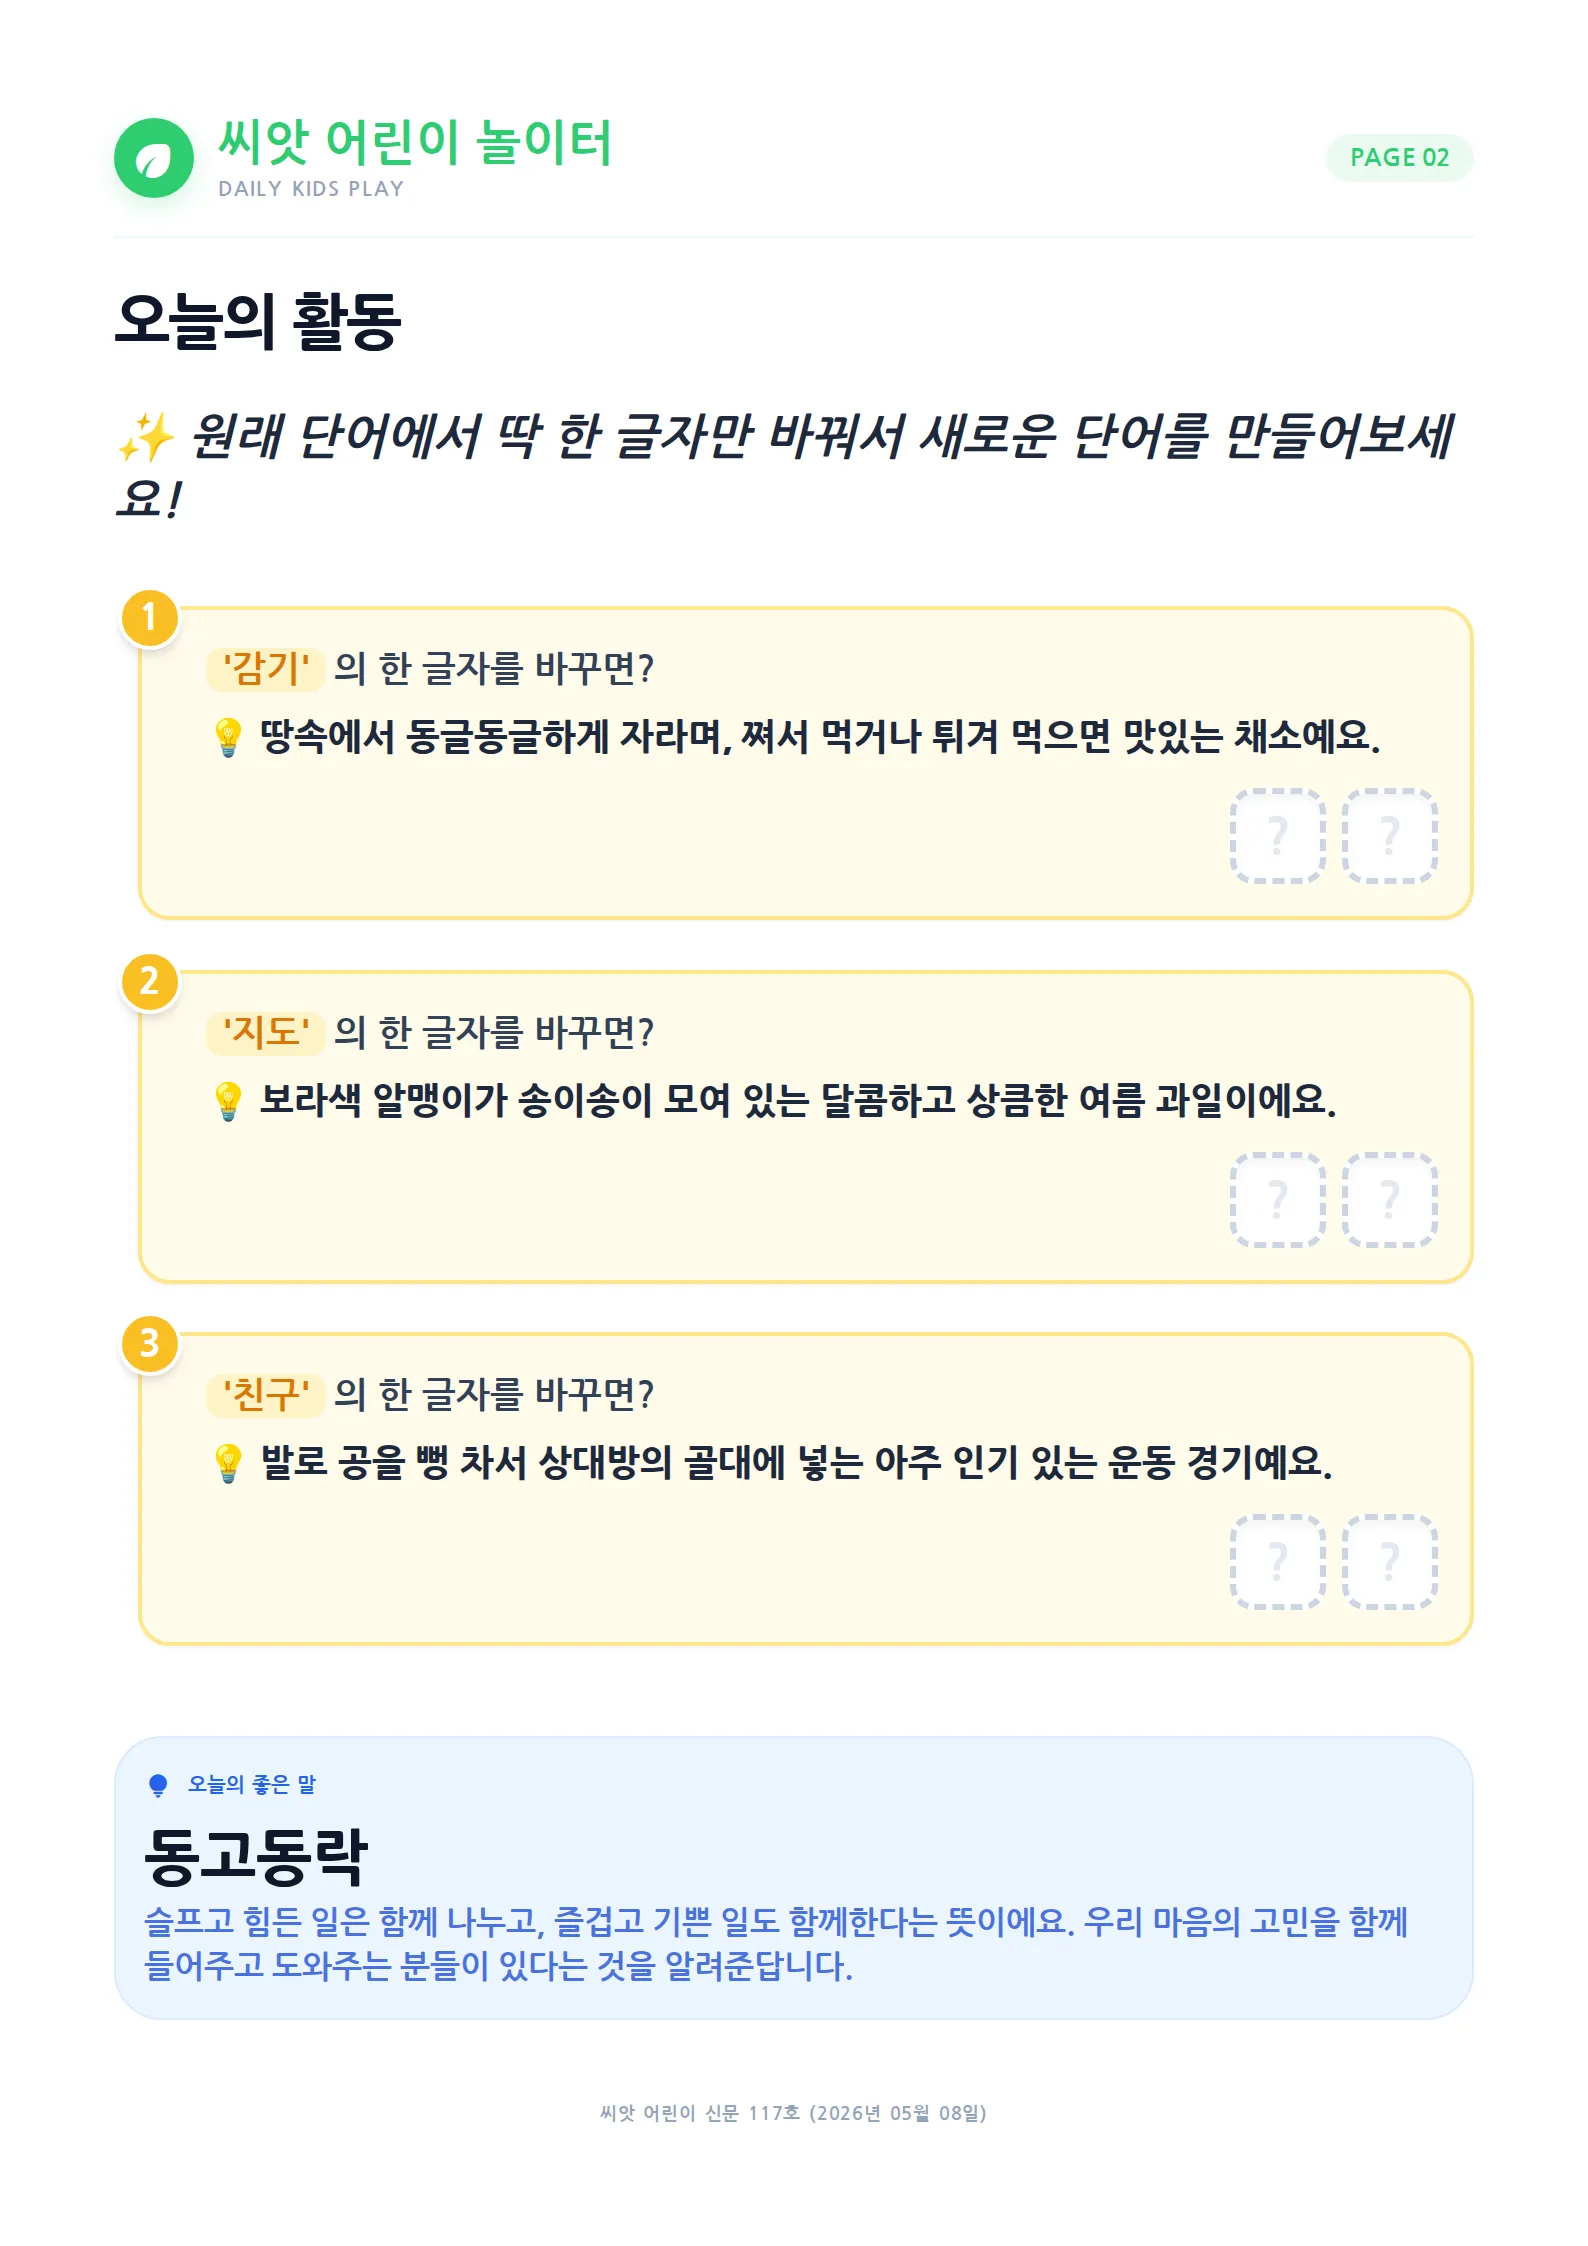
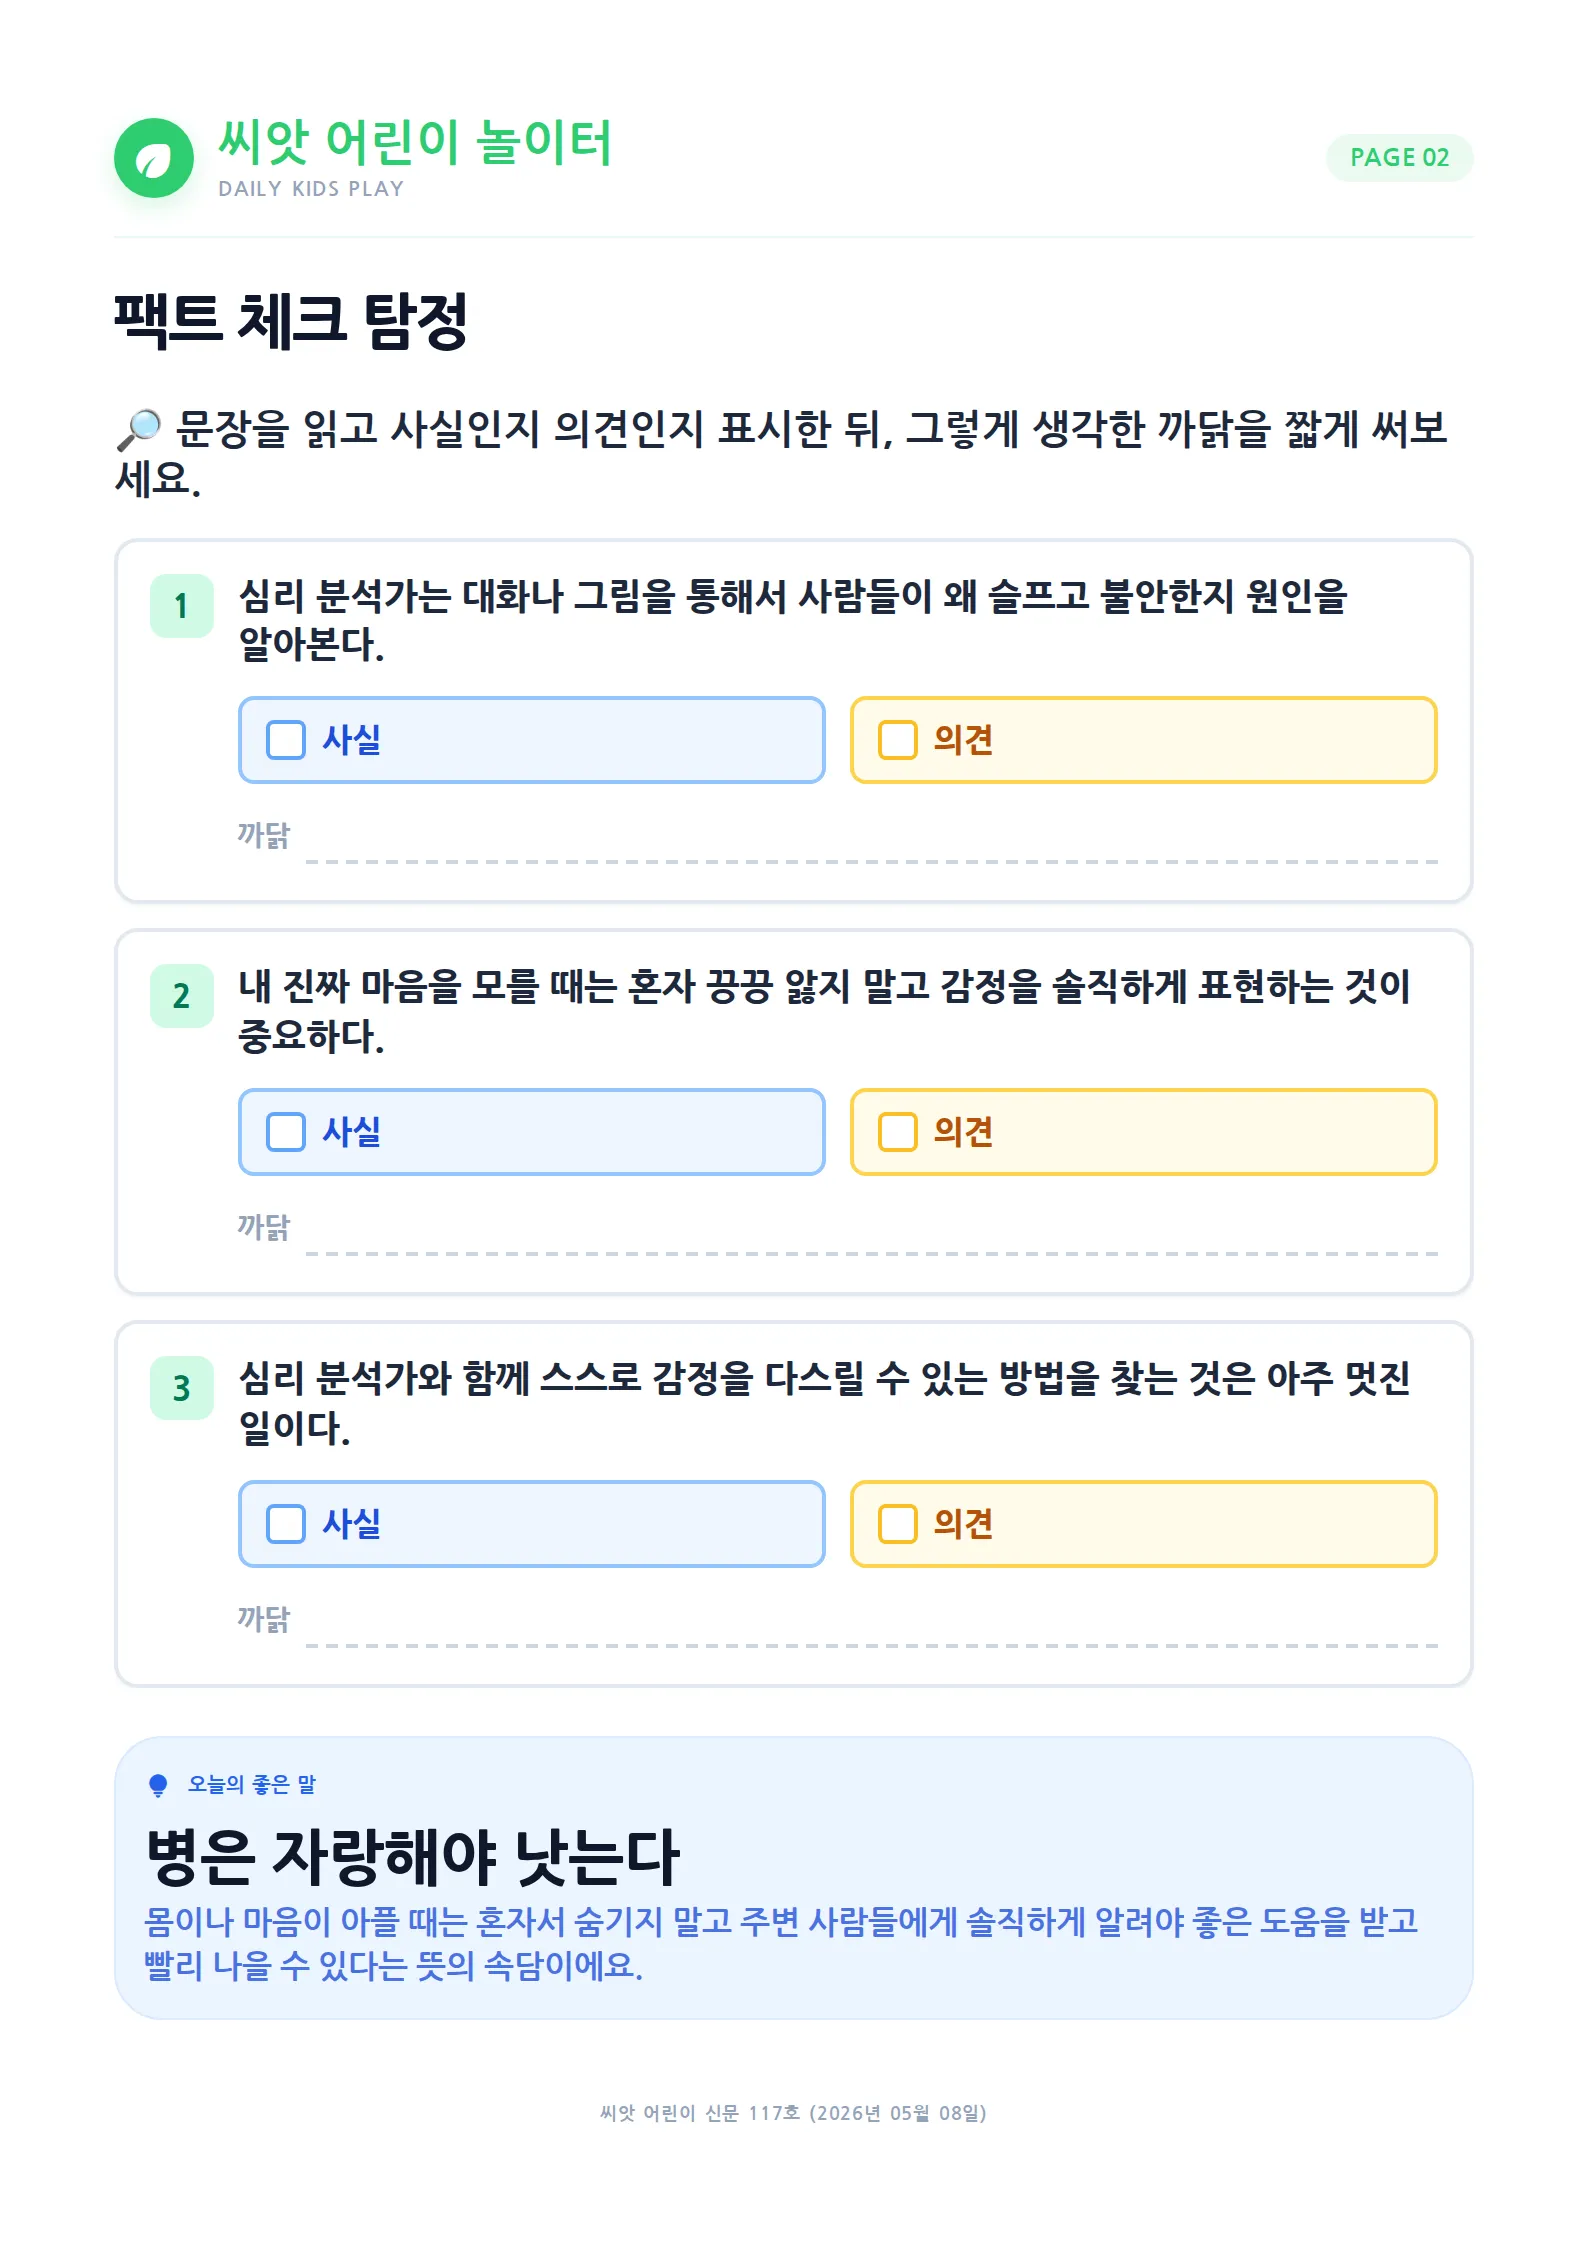
feat: 새 기사 추가 (2026-05-07)

Changed region(s): [[0.0617, 0.187, 0.9257, 0.748], [0.0926, 0.8103, 0.8948, 0.9038], [0.0617, 0.1247, 0.3086, 0.1558]]

diff --git a/kidsnews/2026-05-08/page2.html b/kidsnews/2026-05-08/page2.html
@@ -3,7 +3,7 @@
 
 <head>
     <meta charset="utf-8" />
-    <title>씨앗 어린이 신문 - 오늘의 활동</title>
+    <title>씨앗 어린이 신문 - 팩트 체크 탐정</title>
     <script src="https://cdn.tailwindcss.com"></script>
     <script>
         tailwind.config = {
@@ -210,90 +210,87 @@ body {
         </header>
 
         
-        <h2 class="text-3xl font-extrabold text-slate-900 tracking-tight">오늘의 활동</h2>
+        <h2 class="text-3xl font-extrabold text-slate-900 tracking-tight">팩트 체크 탐정</h2>
         
 
         <main class="flex-1 overflow-hidden">
             <div class="flex flex-col gap-4 h-full">
-    <p class="text-2xl font-bold text-slate-800 italic">✨ 원래 단어에서 딱 한 글자만 바꿔서 새로운 단어를 만들어보세요!</p>
-    
-    <div class="flex-1 flex flex-col justify-evenly gap-3 py-2 pl-3">
+    <p class="text-xl font-bold text-slate-800 leading-tight">🔎 문장을 읽고 사실인지 의견인지 표시한 뒤, 그렇게 생각한 까닭을 짧게 써보세요.</p>
+
+    <div class="flex-1 grid grid-cols-1 gap-3">
         
-        <div class="bg-amber-50 rounded-2xl p-4 border-2 border-amber-200 flex flex-col gap-2 relative shadow-sm">
-            <div class="absolute -top-3 -left-3 w-8 h-8 bg-amber-400 rounded-full flex items-center justify-center text-white font-black text-lg shadow-md border-2 border-white">
-                1
-            </div>
-            
-            <p class="text-lg font-bold text-slate-700 pl-4">
-                <span class="text-amber-600 bg-amber-100 px-2 py-0.5 rounded-lg mr-1">'감기'</span>의 한 글자를 바꾸면?
-            </p>
-            
-            <p class="text-lg font-black text-slate-800 mb-1 leading-snug pl-4">
-                💡 땅속에서 동글동글하게 자라며, 쪄서 먹거나 튀겨 먹으면 맛있는 채소예요.
-            </p>
-            
-            <div class="flex justify-end gap-2 mt-auto">
-                
-                <div class="w-12 h-12 bg-white border-[3px] border-dashed border-slate-300 rounded-xl flex items-center justify-center text-2xl font-black text-slate-200 shadow-inner">
-                    ?
+        <div class="bg-white border-2 border-slate-200 rounded-xl p-4 shadow-sm">
+            <div class="flex gap-3 items-start">
+                <div class="w-8 h-8 rounded-lg bg-emerald-100 text-emerald-700 flex items-center justify-center font-black shrink-0">
+                    1
                 </div>
-                
-                <div class="w-12 h-12 bg-white border-[3px] border-dashed border-slate-300 rounded-xl flex items-center justify-center text-2xl font-black text-slate-200 shadow-inner">
-                    ?
+                <div class="flex-1 min-w-0">
+                    <p class="text-lg font-black text-slate-800 leading-snug break-keep">심리 분석가는 대화나 그림을 통해서 사람들이 왜 슬프고 불안한지 원인을 알아본다.</p>
+                    <div class="grid grid-cols-2 gap-3 mt-3">
+                        <div class="border-2 border-blue-300 rounded-lg px-3 py-2 flex items-center gap-2 bg-blue-50">
+                            <div class="w-5 h-5 rounded border-2 border-blue-400 bg-white shrink-0"></div>
+                            <span class="text-base font-black text-blue-700">사실</span>
+                        </div>
+                        <div class="border-2 border-amber-300 rounded-lg px-3 py-2 flex items-center gap-2 bg-amber-50">
+                            <div class="w-5 h-5 rounded border-2 border-amber-400 bg-white shrink-0"></div>
+                            <span class="text-base font-black text-amber-700">의견</span>
+                        </div>
+                    </div>
+                    <div class="mt-3 flex items-center gap-2">
+                        <span class="text-sm font-black text-slate-400 shrink-0">까닭</span>
+                        <div class="h-7 flex-1 border-b-2 border-dashed border-slate-300"></div>
+                    </div>
                 </div>
-                
             </div>
         </div>
         
-        <div class="bg-amber-50 rounded-2xl p-4 border-2 border-amber-200 flex flex-col gap-2 relative shadow-sm">
-            <div class="absolute -top-3 -left-3 w-8 h-8 bg-amber-400 rounded-full flex items-center justify-center text-white font-black text-lg shadow-md border-2 border-white">
-                2
-            </div>
-            
-            <p class="text-lg font-bold text-slate-700 pl-4">
-                <span class="text-amber-600 bg-amber-100 px-2 py-0.5 rounded-lg mr-1">'지도'</span>의 한 글자를 바꾸면?
-            </p>
-            
-            <p class="text-lg font-black text-slate-800 mb-1 leading-snug pl-4">
-                💡 보라색 알맹이가 송이송이 모여 있는 달콤하고 상큼한 여름 과일이에요.
-            </p>
-            
-            <div class="flex justify-end gap-2 mt-auto">
-                
-                <div class="w-12 h-12 bg-white border-[3px] border-dashed border-slate-300 rounded-xl flex items-center justify-center text-2xl font-black text-slate-200 shadow-inner">
-                    ?
+        <div class="bg-white border-2 border-slate-200 rounded-xl p-4 shadow-sm">
+            <div class="flex gap-3 items-start">
+                <div class="w-8 h-8 rounded-lg bg-emerald-100 text-emerald-700 flex items-center justify-center font-black shrink-0">
+                    2
                 </div>
-                
-                <div class="w-12 h-12 bg-white border-[3px] border-dashed border-slate-300 rounded-xl flex items-center justify-center text-2xl font-black text-slate-200 shadow-inner">
-                    ?
+                <div class="flex-1 min-w-0">
+                    <p class="text-lg font-black text-slate-800 leading-snug break-keep">내 진짜 마음을 모를 때는 혼자 끙끙 앓지 말고 감정을 솔직하게 표현하는 것이 중요하다.</p>
+                    <div class="grid grid-cols-2 gap-3 mt-3">
+                        <div class="border-2 border-blue-300 rounded-lg px-3 py-2 flex items-center gap-2 bg-blue-50">
+                            <div class="w-5 h-5 rounded border-2 border-blue-400 bg-white shrink-0"></div>
+                            <span class="text-base font-black text-blue-700">사실</span>
+                        </div>
+                        <div class="border-2 border-amber-300 rounded-lg px-3 py-2 flex items-center gap-2 bg-amber-50">
+                            <div class="w-5 h-5 rounded border-2 border-amber-400 bg-white shrink-0"></div>
+                            <span class="text-base font-black text-amber-700">의견</span>
+                        </div>
+                    </div>
+                    <div class="mt-3 flex items-center gap-2">
+                        <span class="text-sm font-black text-slate-400 shrink-0">까닭</span>
+                        <div class="h-7 flex-1 border-b-2 border-dashed border-slate-300"></div>
+                    </div>
                 </div>
-                
             </div>
         </div>
         
-        <div class="bg-amber-50 rounded-2xl p-4 border-2 border-amber-200 flex flex-col gap-2 relative shadow-sm">
-            <div class="absolute -top-3 -left-3 w-8 h-8 bg-amber-400 rounded-full flex items-center justify-center text-white font-black text-lg shadow-md border-2 border-white">
-                3
-            </div>
-            
-            <p class="text-lg font-bold text-slate-700 pl-4">
-                <span class="text-amber-600 bg-amber-100 px-2 py-0.5 rounded-lg mr-1">'친구'</span>의 한 글자를 바꾸면?
-            </p>
-            
-            <p class="text-lg font-black text-slate-800 mb-1 leading-snug pl-4">
-                💡 발로 공을 뻥 차서 상대방의 골대에 넣는 아주 인기 있는 운동 경기예요.
-            </p>
-            
-            <div class="flex justify-end gap-2 mt-auto">
-                
-                <div class="w-12 h-12 bg-white border-[3px] border-dashed border-slate-300 rounded-xl flex items-center justify-center text-2xl font-black text-slate-200 shadow-inner">
-                    ?
+        <div class="bg-white border-2 border-slate-200 rounded-xl p-4 shadow-sm">
+            <div class="flex gap-3 items-start">
+                <div class="w-8 h-8 rounded-lg bg-emerald-100 text-emerald-700 flex items-center justify-center font-black shrink-0">
+                    3
                 </div>
-                
-                <div class="w-12 h-12 bg-white border-[3px] border-dashed border-slate-300 rounded-xl flex items-center justify-center text-2xl font-black text-slate-200 shadow-inner">
-                    ?
+                <div class="flex-1 min-w-0">
+                    <p class="text-lg font-black text-slate-800 leading-snug break-keep">심리 분석가와 함께 스스로 감정을 다스릴 수 있는 방법을 찾는 것은 아주 멋진 일이다.</p>
+                    <div class="grid grid-cols-2 gap-3 mt-3">
+                        <div class="border-2 border-blue-300 rounded-lg px-3 py-2 flex items-center gap-2 bg-blue-50">
+                            <div class="w-5 h-5 rounded border-2 border-blue-400 bg-white shrink-0"></div>
+                            <span class="text-base font-black text-blue-700">사실</span>
+                        </div>
+                        <div class="border-2 border-amber-300 rounded-lg px-3 py-2 flex items-center gap-2 bg-amber-50">
+                            <div class="w-5 h-5 rounded border-2 border-amber-400 bg-white shrink-0"></div>
+                            <span class="text-base font-black text-amber-700">의견</span>
+                        </div>
+                    </div>
+                    <div class="mt-3 flex items-center gap-2">
+                        <span class="text-sm font-black text-slate-400 shrink-0">까닭</span>
+                        <div class="h-7 flex-1 border-b-2 border-dashed border-slate-300"></div>
+                    </div>
                 </div>
-                
             </div>
         </div>
         
@@ -308,8 +305,8 @@ body {
                     <span class="text-[10px] font-bold tracking-wider uppercase">오늘의 좋은 말</span>
                 </div>
                 <div class="flex flex-col gap-1">
-                    <p class="text-3xl font-black text-slate-900">동고동락</p>
-                    <p class="text-base font-bold text-blue-700/80 leading-snug">슬프고 힘든 일은 함께 나누고, 즐겁고 기쁜 일도 함께한다는 뜻이에요. 우리 마음의 고민을 함께 들어주고 도와주는 분들이 있다는 것을 알려준답니다.</p>
+                    <p class="text-3xl font-black text-slate-900">병은 자랑해야 낫는다</p>
+                    <p class="text-base font-bold text-blue-700/80 leading-snug">몸이나 마음이 아플 때는 혼자서 숨기지 말고 주변 사람들에게 솔직하게 알려야 좋은 도움을 받고 빨리 나을 수 있다는 뜻의 속담이에요.</p>
                 </div>
             </div>
         </footer>
